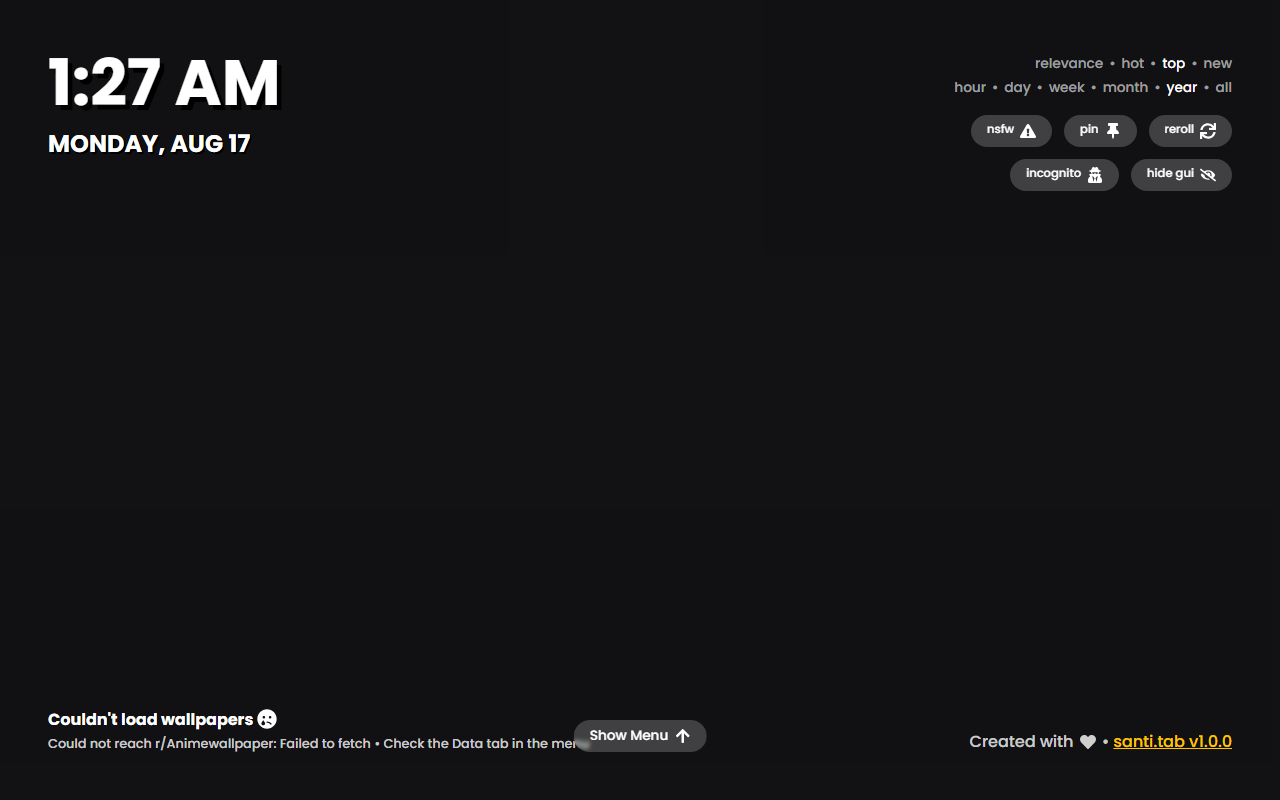
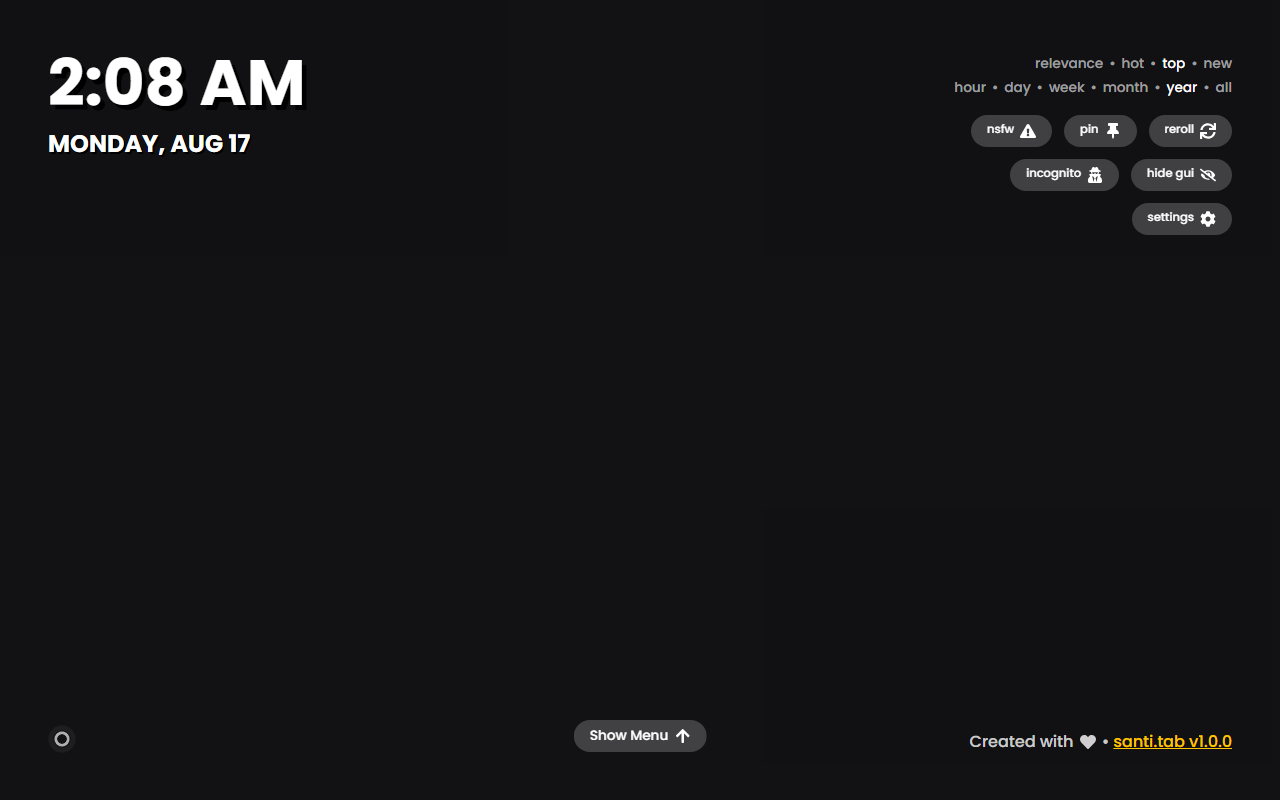
Add a settings button to the control bar
Reaching settings meant clicking Show Menu and then hunting for a tab.
There is now a gear in the top-right controls (and a KeyS binding) that
opens the menu straight into settings.

The active tab moved from local state in Menu into ConfigStore.menuTab so
the button can target it, which also means the menu reopens on whichever
settings tab you used last. The gear never lands on History -- that tab
has its own entry -- and it closes the menu again when settings are
already showing.

Claude-Session: https://claude.ai/code/session_01ADw4JqK3WPZapV5bNuQG2i

Changed region(s): [[0.0312, 0.875, 0.4688, 0.9375], [0.0312, 0.0625, 0.25, 0.1562], [0.875, 0.25, 0.9688, 0.3125]]

diff --git a/tests/components/SettingsButton.test.tsx b/tests/components/SettingsButton.test.tsx
@@ -1,0 +1,114 @@
+import "@testing-library/jest-dom"
+import { act, render, screen } from "@testing-library/react"
+import userEvent from "@testing-library/user-event"
+import { beforeEach, describe, expect, it } from "vitest"
+import Config from "../../src/components/Config"
+import Menu from "../../src/components/Menu"
+import {
+  ConfigStore,
+  DEFAULT_SETTINGS_TAB,
+  toggleSettings,
+} from "../../src/stores/ConfigStore"
+import { resetStores } from "../helpers"
+
+describe("toggleSettings", () => {
+  beforeEach(resetStores)
+
+  it("opens the menu on the default settings tab from a closed state", () => {
+    toggleSettings()
+
+    expect(ConfigStore.isMenuVisible).toBe(true)
+    expect(ConfigStore.menuTab).toBe(DEFAULT_SETTINGS_TAB)
+  })
+
+  it("reopens on whichever settings tab was used last", () => {
+    ConfigStore.menuTab = "clock"
+
+    toggleSettings()
+    expect(ConfigStore.menuTab).toBe("clock")
+    expect(ConfigStore.isMenuVisible).toBe(true)
+
+    toggleSettings()
+    expect(ConfigStore.isMenuVisible).toBe(false)
+    expect(ConfigStore.menuTab).toBe("clock")
+  })
+
+  it("switches away from History rather than closing", () => {
+    ConfigStore.isMenuVisible = true
+    ConfigStore.menuTab = "history"
+
+    toggleSettings()
+
+    expect(ConfigStore.isMenuVisible).toBe(true)
+    expect(ConfigStore.menuTab).toBe(DEFAULT_SETTINGS_TAB)
+  })
+})
+
+describe("settings button", () => {
+  beforeEach(resetStores)
+
+  it("opens and closes settings from the control bar", async () => {
+    const user = userEvent.setup()
+    render(<Config />)
+
+    const button = screen.getByRole("button", { name: /settings/i })
+    expect(button).not.toHaveClass("active")
+
+    await user.click(button)
+    expect(ConfigStore.isMenuVisible).toBe(true)
+    expect(ConfigStore.menuTab).toBe(DEFAULT_SETTINGS_TAB)
+    expect(button).toHaveClass("active")
+
+    await user.click(button)
+    expect(ConfigStore.isMenuVisible).toBe(false)
+  })
+
+  it("is not marked active while the History tab is showing", async () => {
+    ConfigStore.isMenuVisible = true
+    ConfigStore.menuTab = "history"
+
+    render(<Config />)
+
+    expect(screen.getByRole("button", { name: /settings/i })).not.toHaveClass(
+      "active"
+    )
+  })
+
+  it("answers its keyboard shortcut", () => {
+    render(<Config />)
+
+    act(() => {
+      document.dispatchEvent(new KeyboardEvent("keydown", { code: "KeyS" }))
+    })
+
+    expect(ConfigStore.isMenuVisible).toBe(true)
+    expect(ConfigStore.menuTab).toBe(DEFAULT_SETTINGS_TAB)
+  })
+
+  it("drives which panel the menu renders", async () => {
+    const user = userEvent.setup()
+    render(
+      <>
+        <Config />
+        <Menu />
+      </>
+    )
+
+    await user.click(screen.getByRole("button", { name: /settings/i }))
+
+    // The Appearance pane, not History.
+    expect(document.querySelector(".settings-panel")).toBeInTheDocument()
+    expect(document.querySelector(".history-panel")).not.toBeInTheDocument()
+    expect(
+      screen.getByRole("button", { name: /set primary color to #ffc400/i })
+    ).toBeInTheDocument()
+  })
+
+  it("remembers the tab picked in the sidebar", async () => {
+    const user = userEvent.setup()
+    render(<Menu />)
+
+    await user.click(screen.getByRole("button", { name: /^clock$/i }))
+    expect(ConfigStore.menuTab).toBe("clock")
+  })
+})

diff --git a/src/stores/ConfigStore.ts b/src/stores/ConfigStore.ts
@@ -67,6 +67,7 @@ export const KEYBIND_ACTIONS = {
   incognito: "Incognito",
   hideGui: "Hide / show GUI",
   nsfw: "Toggle NSFW",
+  settings: "Open / close settings",
   menu: "Open / close menu",
   favorite: "Favorite current",
   download: "Download wallpaper",
@@ -74,6 +75,24 @@ export const KEYBIND_ACTIONS = {
 } as const
 
 export type KeybindAction = keyof typeof KEYBIND_ACTIONS
+
+/**
+ * Menu tabs, in sidebar order. Everything after "history" is a settings pane,
+ * which is what the settings button jumps to.
+ */
+export const MENU_TABS = [
+  "history",
+  "wallpaper",
+  "appearance",
+  "clock",
+  "widgets",
+  "behavior",
+  "data",
+] as const
+
+export type MenuTab = (typeof MENU_TABS)[number]
+
+export const DEFAULT_SETTINGS_TAB: MenuTab = "appearance"
 
 export type Corner = "left" | "center" | "right"
 export type Vertical = "top" | "center" | "bottom"
@@ -102,6 +121,7 @@ export type ConfigState = {
   pinned: boolean
 
   isMenuVisible: boolean
+  menuTab: MenuTab
 
   theme: {
     primary: string
@@ -212,6 +232,7 @@ export const DEFAULT_CONFIG: ConfigState = {
   pinned: false,
 
   isMenuVisible: false,
+  menuTab: "history",
 
   theme: {
     primary: PRIMARY_COLOR_PRESETS[0],
@@ -305,6 +326,7 @@ export const DEFAULT_CONFIG: ConfigState = {
     incognito: "KeyI",
     hideGui: "KeyH",
     nsfw: "",
+    settings: "KeyS",
     menu: "KeyM",
     favorite: "KeyF",
     download: "KeyD",
@@ -373,6 +395,27 @@ export const pickValue = <K extends keyof ConfigStatePickableFields>(
 
 export const toggleMenu = () => {
   ConfigStore.isMenuVisible = !ConfigStore.isMenuVisible
+}
+
+export const setMenuTab = (tab: MenuTab) => {
+  ConfigStore.menuTab = tab
+}
+
+/**
+ * The settings button: opens the menu straight into settings, and closes it
+ * again if that's already what you're looking at. Reopens on whichever
+ * settings tab you used last -- never on History, which has its own button.
+ */
+export const toggleSettings = () => {
+  const onSettings = ConfigStore.menuTab !== "history"
+
+  if (ConfigStore.isMenuVisible && onSettings) {
+    ConfigStore.isMenuVisible = false
+    return
+  }
+
+  if (!onSettings) ConfigStore.menuTab = DEFAULT_SETTINGS_TAB
+  ConfigStore.isMenuVisible = true
 }
 
 /** Restores every field to its shipped default. */

diff --git a/src/components/Menu.tsx b/src/components/Menu.tsx
@@ -14,8 +14,9 @@ import {
 } from "react-icons/fa"
 import { useSnapshot } from "valtio"
 
+import type { IconType } from "react-icons"
 import { LoadState, setLoaded } from "../stores/AppStore"
-import { ConfigStore } from "../stores/ConfigStore"
+import { ConfigStore, setMenuTab, type MenuTab } from "../stores/ConfigStore"
 import {
   clearHistory,
   HistoryStore,
@@ -29,7 +30,11 @@ import DataPanel from "./settings/DataPanel"
 import WallpaperPanel from "./settings/WallpaperPanel"
 import WidgetsPanel from "./settings/WidgetsPanel"
 
-const TABS = [
+const TABS: ReadonlyArray<{
+  id: MenuTab
+  label: string
+  icon: IconType
+}> = [
   { id: "history", label: "History", icon: FaHistory },
   { id: "wallpaper", label: "Wallpaper", icon: FaImage },
   { id: "appearance", label: "Appearance", icon: FaPalette },
@@ -37,9 +42,7 @@ const TABS = [
   { id: "widgets", label: "Widgets", icon: FaCog },
   { id: "behavior", label: "Behavior", icon: FaKeyboard },
   { id: "data", label: "Data", icon: FaDatabase },
-] as const
-
-type MenuTab = (typeof TABS)[number]["id"]
+]
 
 const PANELS: Record<Exclude<MenuTab, "history">, ComponentType> = {
   wallpaper: WallpaperPanel,
@@ -208,8 +211,7 @@ function HistoryPanel() {
 }
 
 export default function Menu() {
-  const { isMenuVisible } = useSnapshot(ConfigStore)
-  const [activeTab, setActiveTab] = useState<MenuTab>("history")
+  const { isMenuVisible, menuTab: activeTab } = useSnapshot(ConfigStore)
 
   const Panel = activeTab === "history" ? null : PANELS[activeTab]
 
@@ -221,7 +223,7 @@ export default function Menu() {
             key={id}
             type="button"
             className={activeTab === id ? "active" : ""}
-            onClick={() => setActiveTab(id)}
+            onClick={() => setMenuTab(id)}
           >
             <Icon size={16} />
             {label}

diff --git a/src/components/Config.tsx b/src/components/Config.tsx
@@ -1,5 +1,6 @@
 import { useCallback, useEffect, useMemo, useRef, useState } from "react"
 import {
+  FaCog,
   FaExclamationTriangle,
   FaEye,
   FaEyeSlash,
@@ -18,6 +19,7 @@ import {
   toggle,
   toggleMenu,
   toggleNsfw,
+  toggleSettings,
   type ConfigStatePickableFields,
 } from "../stores/ConfigStore"
 import { HistoryStore, toggleFavoriteAt } from "../stores/HistoryStore"
@@ -141,11 +143,20 @@ function Config() {
         action: () => toggle("hideGui"),
         keyBinding: config.keybinds.hideGui,
       },
+      {
+        id: "settings",
+        icon: FaCog,
+        action: toggleSettings,
+        isActive: config.isMenuVisible && config.menuTab !== "history",
+        keyBinding: config.keybinds.settings,
+      },
     ],
     [
       config.hideGui,
       config.incognito,
+      config.isMenuVisible,
       config.keybinds,
+      config.menuTab,
       config.nsfw,
       config.pinned,
       isRolling,
